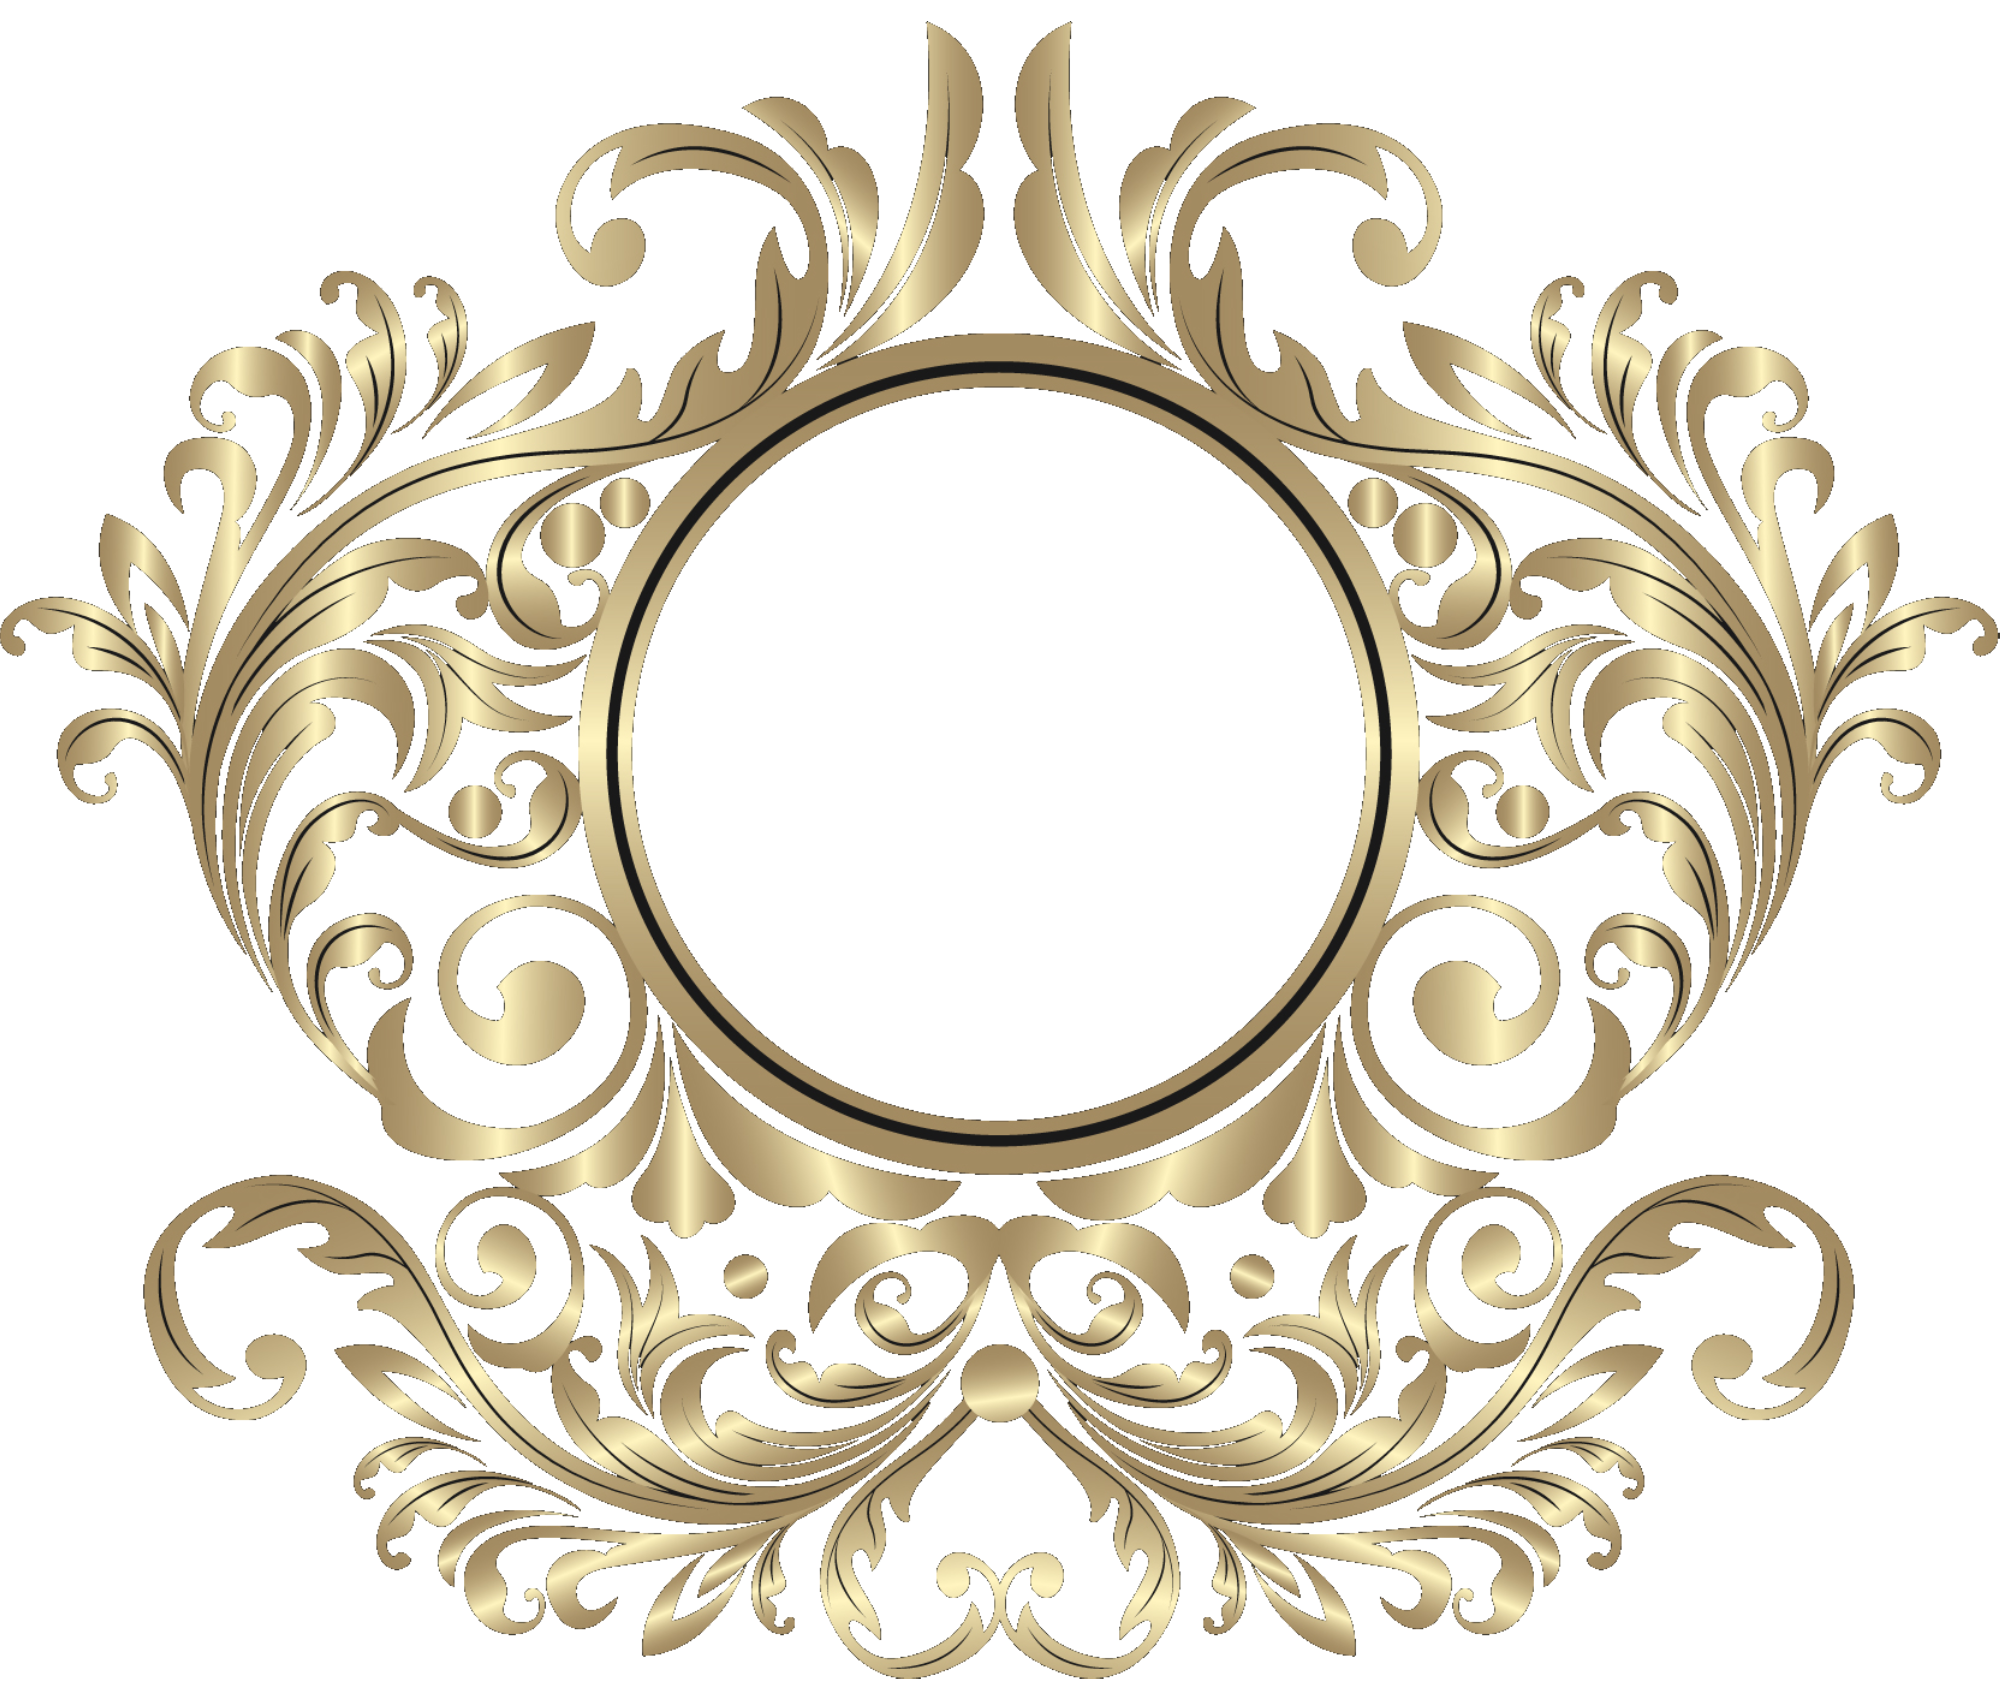
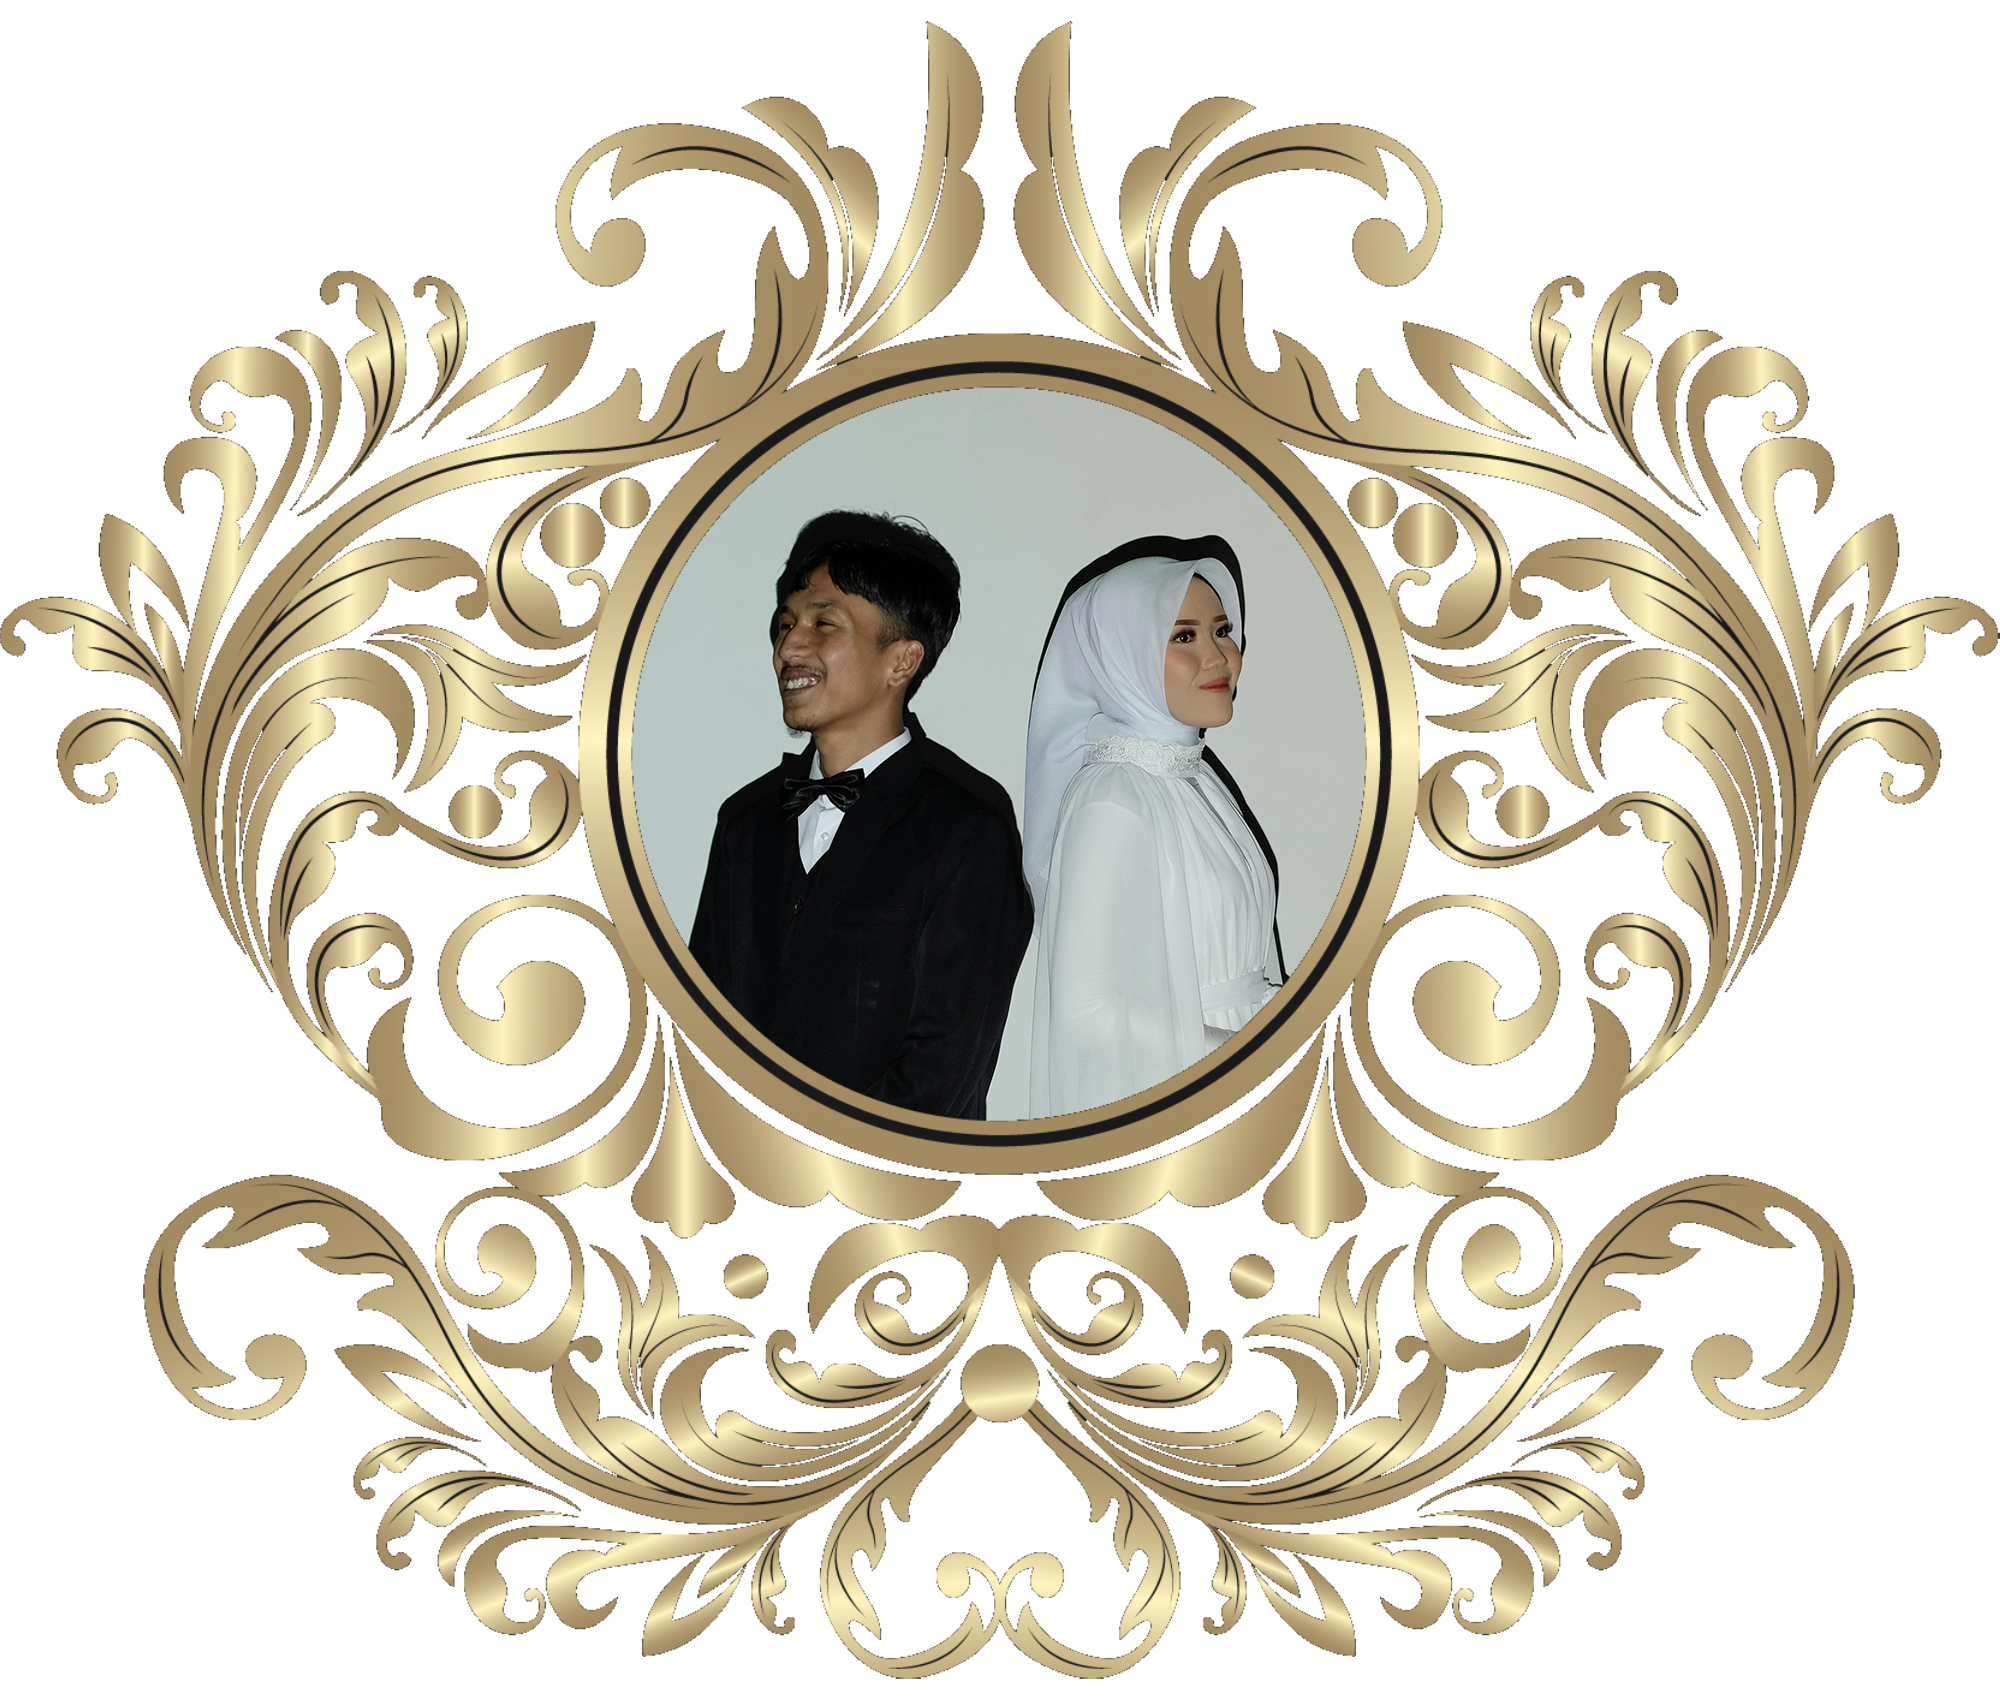
change photos

Changed region(s): [[0.31, 0.2182, 0.682, 0.6859]]

diff --git a/index.html b/index.html
@@ -158,7 +158,7 @@
 				<div class="couple-wrap animate-box">
 					<div class="couple-half">
 						<div class="groom">
-							<img src="images/rehan-square.jpg" alt="groom" class="img-responsive">
+							<img src="images/shinta-square.jpg" alt="groom" class="img-responsive">
 						</div>
 						<div class="desc-groom">
 							<h3>Yushinta Saputri, S.Pd</h3>
@@ -172,7 +172,7 @@
 					<p class="heart text-center"><i class="icon-heart2"></i></p>
 					<div class="couple-half">
 						<div class="bride">
-							<img src="images/molid-square.jpg" alt="groom" class="img-responsive">
+							<img src="images/sangiba-square.jpg" alt="groom" class="img-responsive">
 						</div>
 						<div class="desc-bride">
 							<h3>M Maftuh Sangiba, S.Kom</h3>
@@ -247,30 +247,26 @@
 						<section id="main-carousel" class="splide" aria-label="The carousel with thumbnails. Selecting a thumbnail will change the Beautiful Gallery carousel." style="margin: auto;">
 							<div class="splide__track">
 								<ul class="splide__list">
-									<li class="splide__slide">
-										<img src="images/couple-1.jpg" alt="">
-									</li>
-									<li class="splide__slide">
-										<img src="images/couple-2.jpg" alt="">
-									</li>
-									<li class="splide__slide">
-										<img src="images/couple-3.jpg" alt="">
-									</li>
+									<?php
+									for ($i=1; $i < 12; $i++) { 
+										echo "<li class='splide__slide'>
+										<img src='images/gallery/couple($i).jpg' alt=''>
+									</li>";
+									}
+									?>
 								</ul>
 							</div>
 						</section>
 						<section id="thumbnail-carousel" class="splide" aria-label="The carousel with thumbnails. Selecting a thumbnail will change the Beautiful Gallery carousel." style="margin: auto;">
 							<div class="splide__track">
 								<ul class="splide__list">
-									<li class="splide__slide">
-										<img src="images/couple-1.jpg" alt="">
-									</li>
-									<li class="splide__slide">
-										<img src="images/couple-2.jpg" alt="">
-									</li>
-									<li class="splide__slide">
-										<img src="images/couple-3.jpg" alt="">
-									</li>
+									<?php
+									for ($i=1; $i < 12; $i++) { 
+										echo "<li class='splide__slide'>
+										<img src='images/gallery/couple($i).jpg' alt=''>
+									</li>";
+									}
+									?>
 								</ul>
 							</div>
 						</section>
@@ -748,7 +744,7 @@
 				pagination: false,
 				arrows: false,
 				autoplay: true,
-				interval: 2000
+				interval: 2000,
 			});
 
 

diff --git a/css/style.css b/css/style.css
@@ -512,14 +512,32 @@ h1, h2, h3, h4, h5, h6, figure {
 #overlay {
   background: #ffffff;
   background-image: url("../images/overlay.JPG");
-  background-size: cover;
   height: 100%;
   width: 100%;
   position: fixed;
   top: 0;
   left: 0;
   z-index: 2000;
+  background-position: center;
+  background-size: 150%;
+  background-position-y: 25%;
 }
+
+@media screen and (max-width: 480px) {
+  #overlay {
+    background: #ffffff;
+    background-image: url("../images/overlay.JPG");
+    background-size: cover;
+    height: 100%;
+    width: 100%;
+    position: fixed;
+    top: 0;
+    left: 0;
+    z-index: 2000;
+    background-position: center;
+  }
+}
+
 #overlay .content {
   background: rgba(0, 0, 0, 0.7);
   position: relative;
@@ -2375,12 +2393,12 @@ fadeIn {  from {
   }
   .ornament-gallery{
     height: 17%;
-    top: 24%;
+    top: 17%;
     left: 0;
   }
   .ornament-gallery-bottom{
     height: 17%;
-    bottom: 9%;
+    bottom: 6%;
     right: 0;
   }
 }
